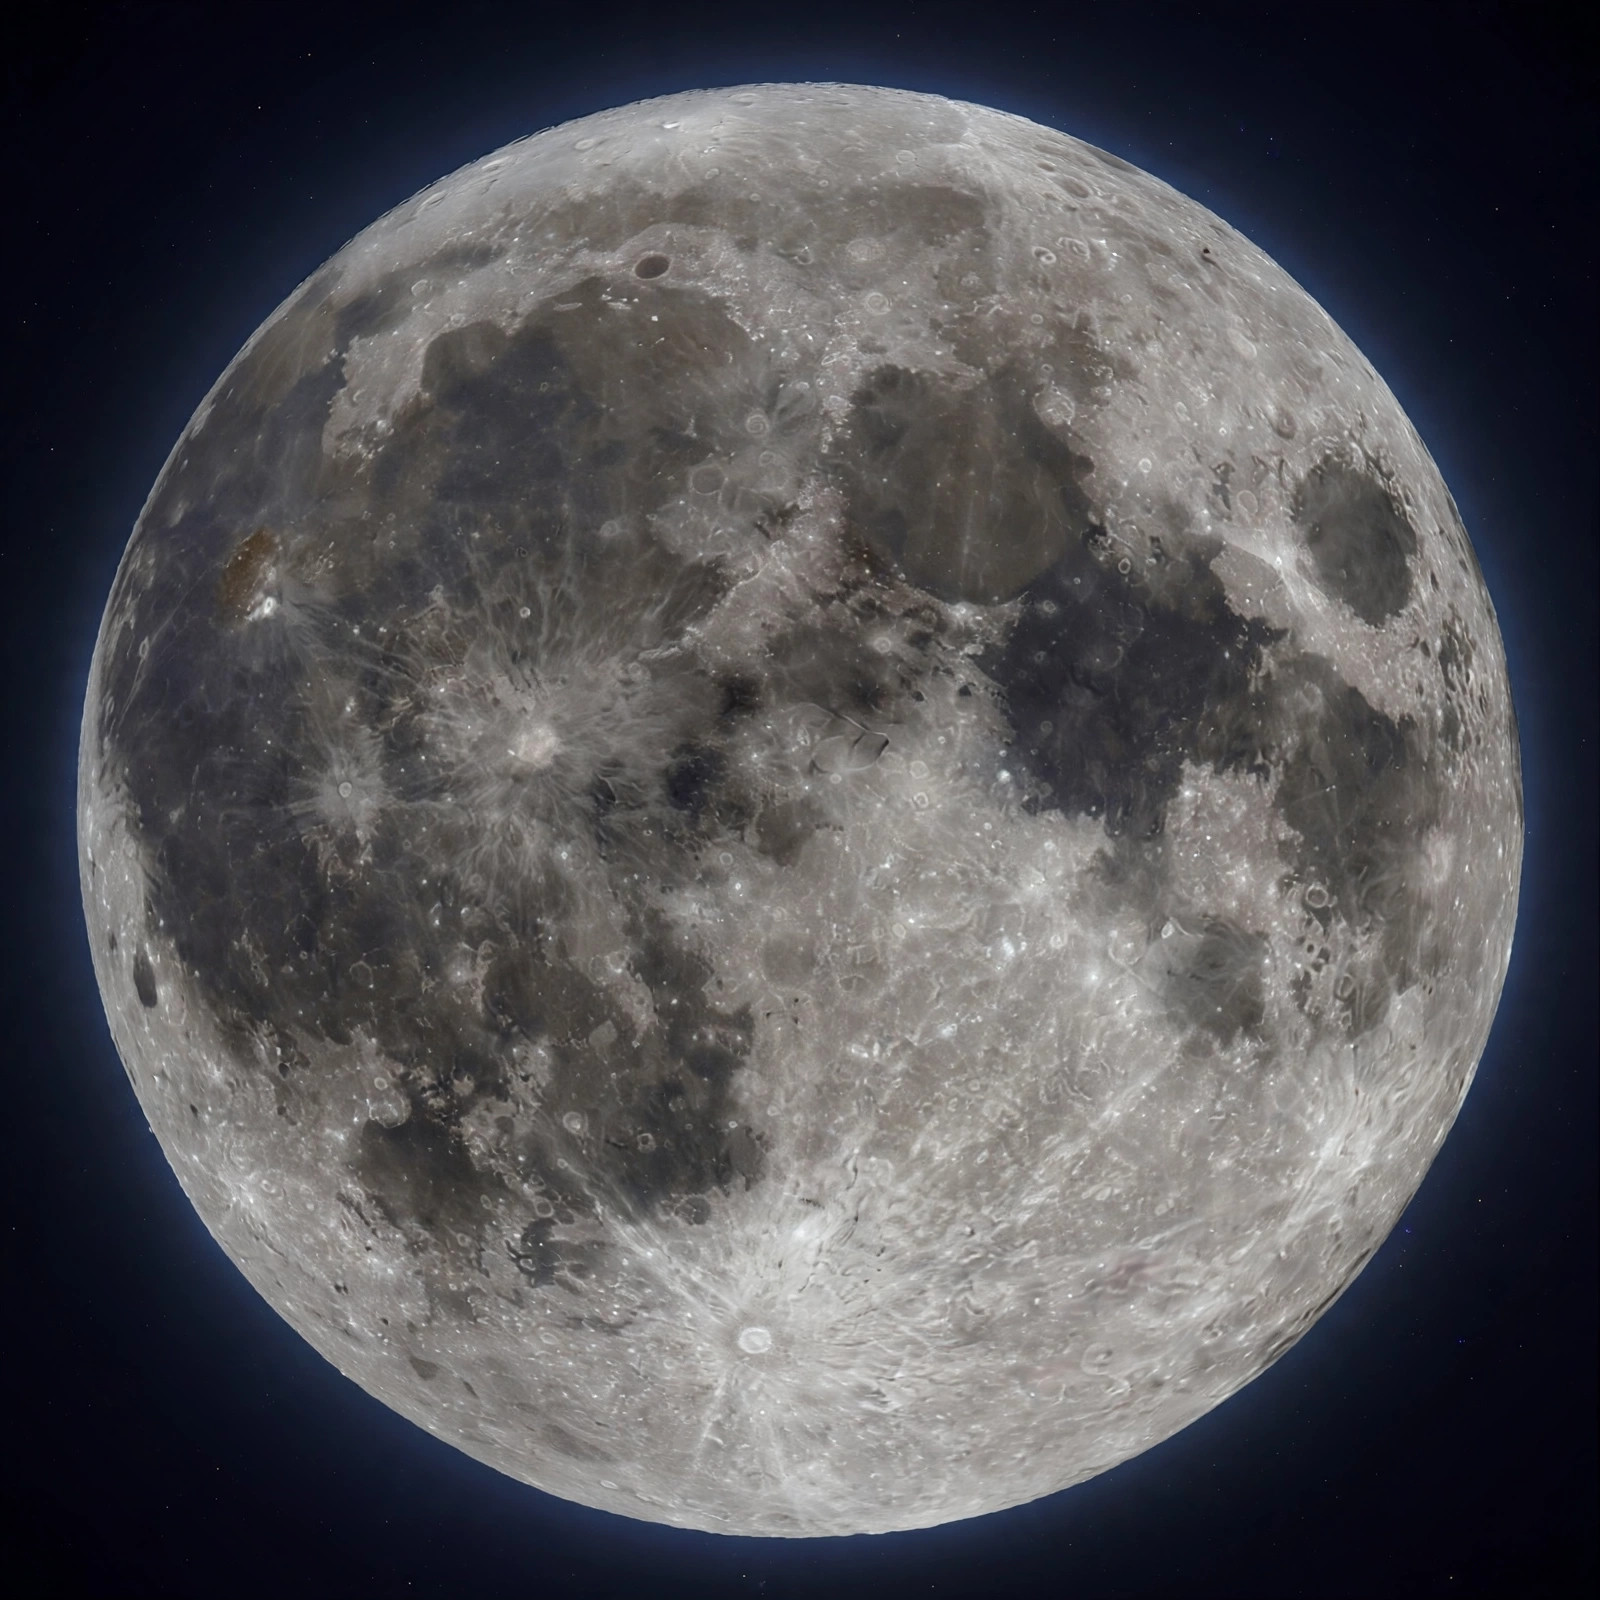
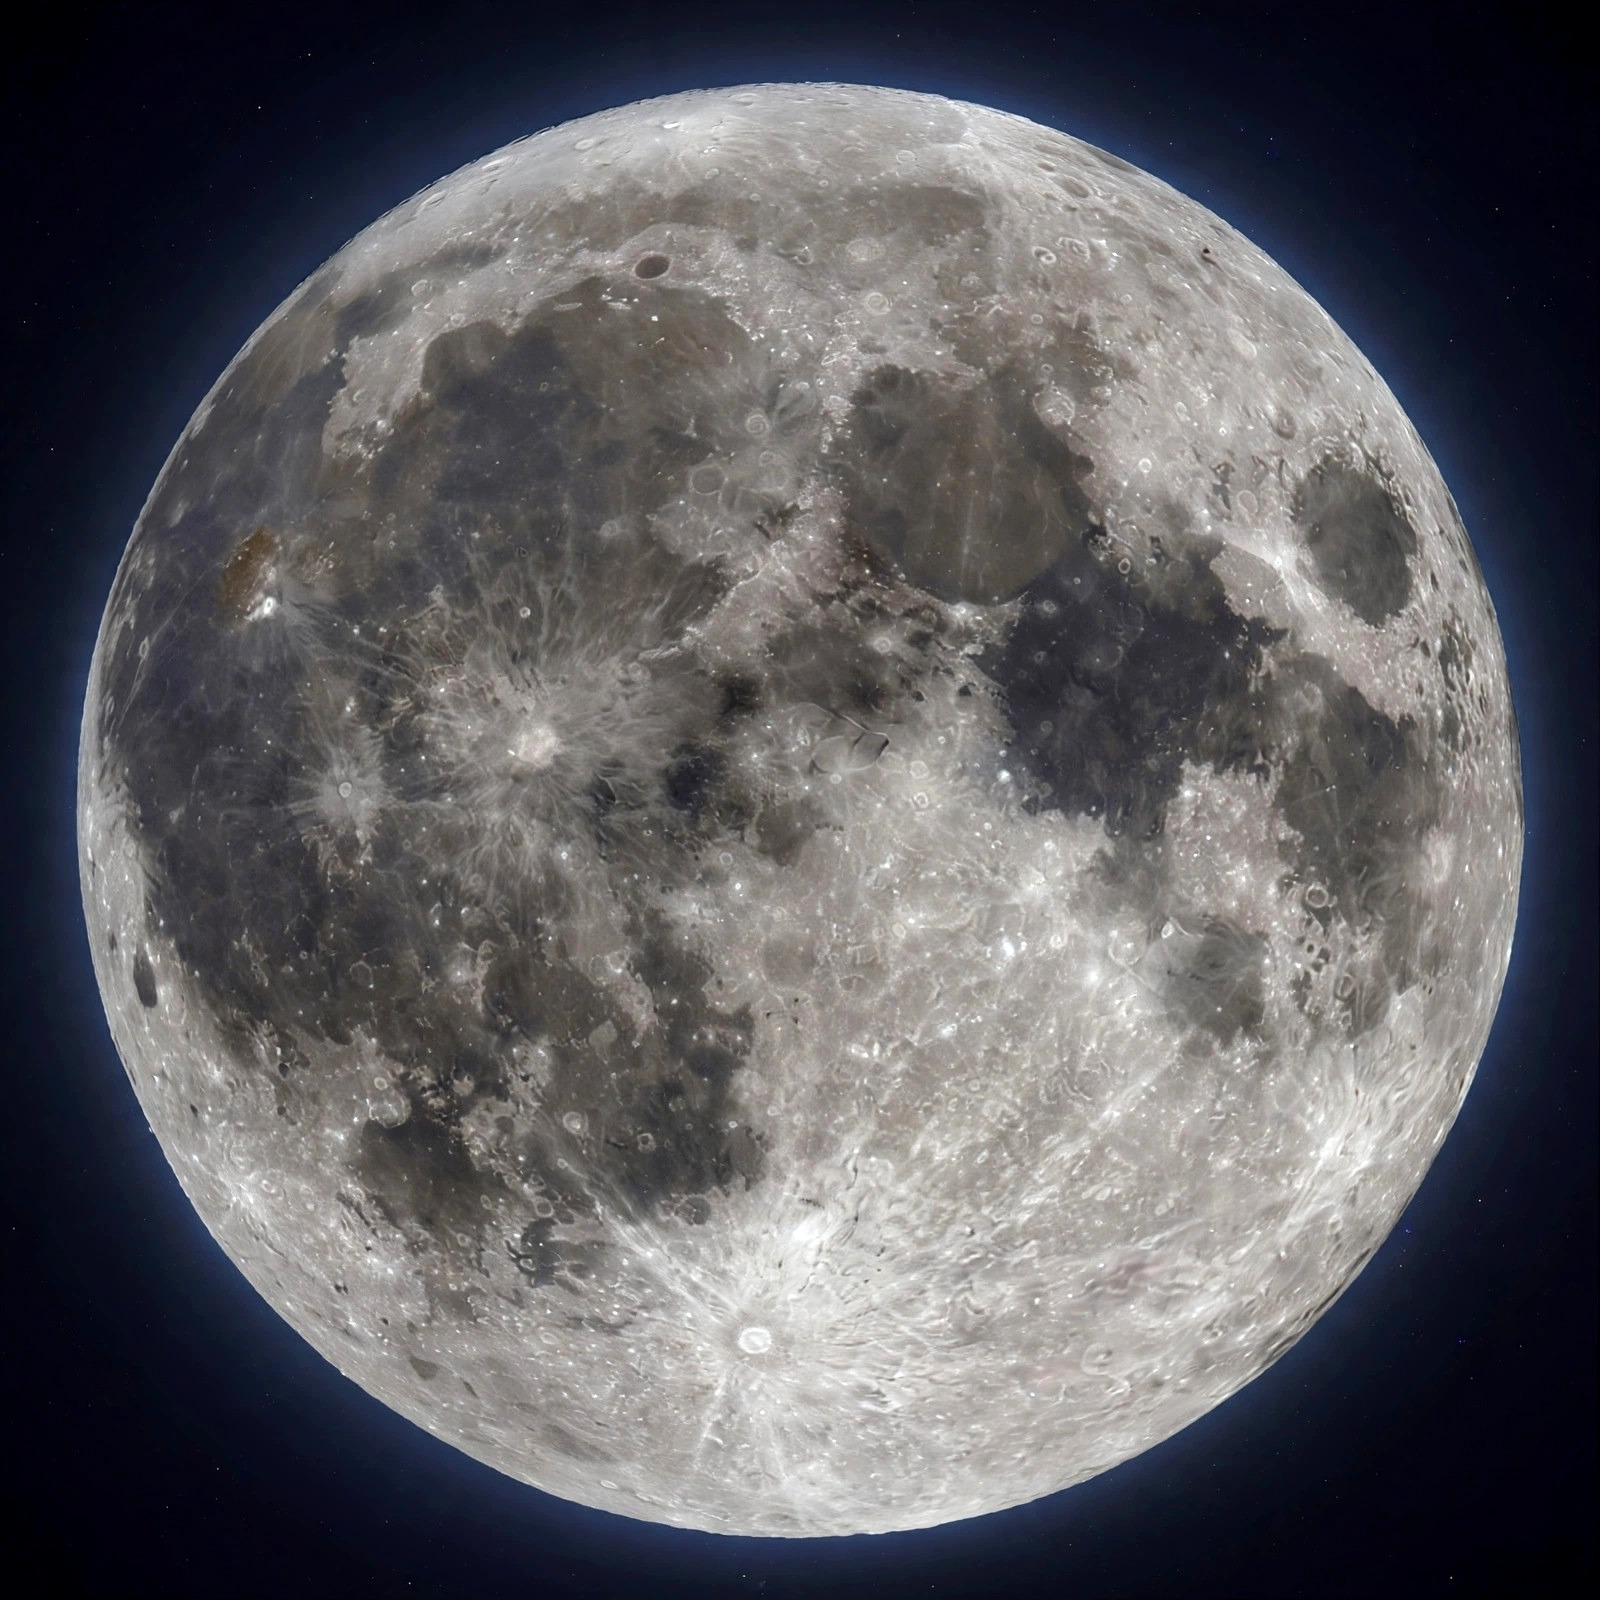
Luna del cierre con mas luz: brillo +13% y velo mas ligero, luz suave

diff --git a/index.html b/index.html
@@ -96,7 +96,7 @@
   @media (max-width:680px){ .estacion{width:100%} .estacion.e2{flex-direction:row;text-align:left} .camino-hilo{display:none} }
 
   /* ---------- Cierre: medallon de medianoche ---------- */
-  .medallon{width:min(370px,90vw);aspect-ratio:1/1;margin:44px auto 8px;border:1px solid #4A3A6B;border-radius:50%;background:linear-gradient(rgba(20,28,52,.78),rgba(20,28,52,.89)),url('luna-llena.jpg') center/cover;display:flex;flex-direction:column;align-items:center;justify-content:center;text-align:center;padding:42px 40px;position:relative}
+  .medallon{width:min(370px,90vw);aspect-ratio:1/1;margin:44px auto 8px;border:1px solid #4A3A6B;border-radius:50%;background:linear-gradient(rgba(20,28,52,.62),rgba(20,28,52,.76)),url('luna-llena.jpg') center/cover;display:flex;flex-direction:column;align-items:center;justify-content:center;text-align:center;padding:42px 40px;position:relative}
   .medallon::after{content:"";position:absolute;inset:9px;border:1px solid rgba(183,166,217,.22);border-radius:50%;pointer-events:none}
   .medallon h2{font-size:24px;line-height:1.25}
   .medallon p{color:var(--suave);font-size:14px;line-height:1.6;margin-top:10px}
